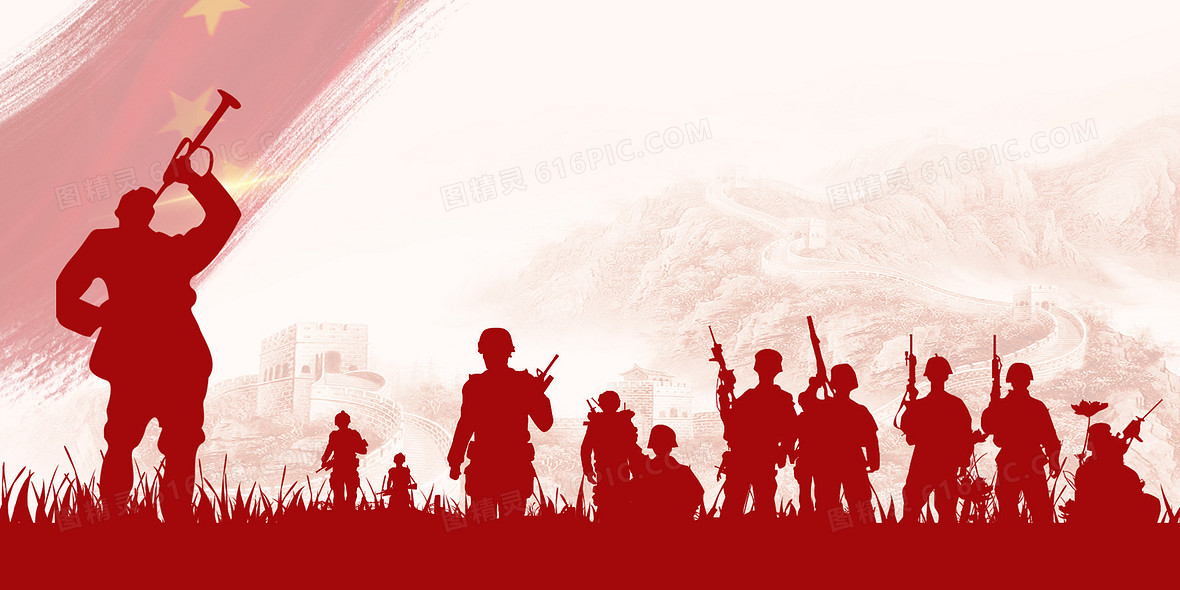
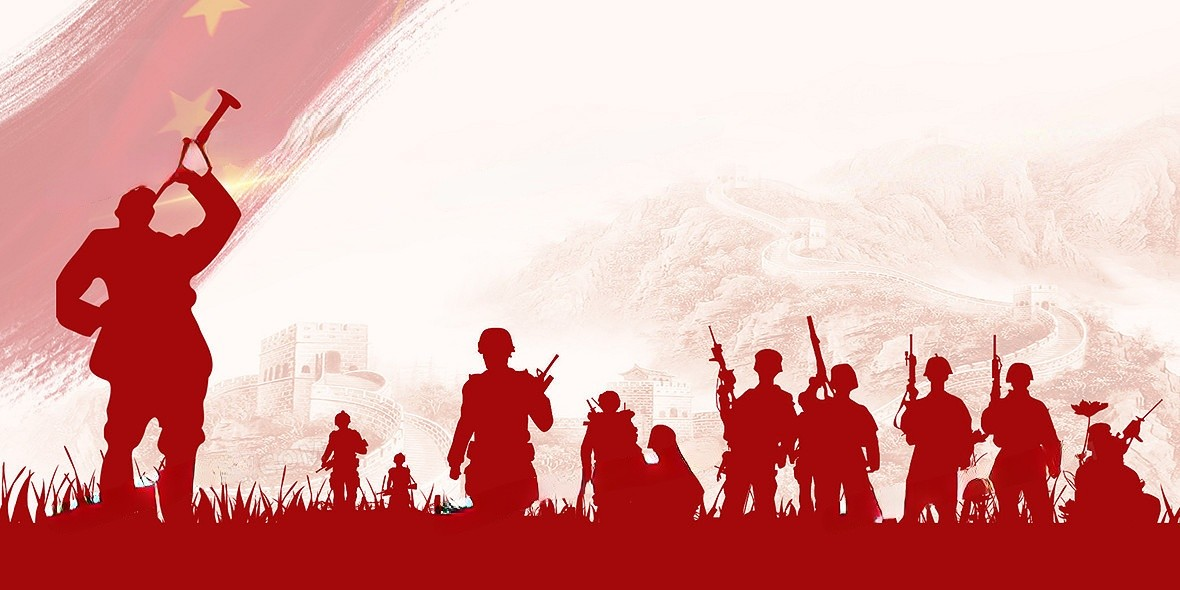
20251207去除水印

diff --git a/frontend/src/components/InteractiveMap.vue b/frontend/src/components/InteractiveMap.vue
@@ -295,11 +295,18 @@ export default {
     initMap() {
       // 初始化地图
       this.map = new AMap.Map('amapContainer', {
-        zoom: 7,
-        center: [104.5, 30.0],
+        zoom: 5, // 调整缩放级别以更好地显示中国
+        center: [104, 35], // 设置中心点为中国大致中心
         mapStyle: 'amap://styles/grey', // 使用灰色地图作为基础
         viewMode: '2D'
-      })
+      });
+
+      // 设置地图允许显示的范围为中国
+      const chinaBounds = new AMap.Bounds(
+        [73.55, 18.15], // 西南角
+        [135.08, 53.55]  // 东北角
+      );
+      this.map.setLimitBounds(chinaBounds);
 
       // 等待地图加载完成后添加标记和路线
       this.map.on('complete', () => {
